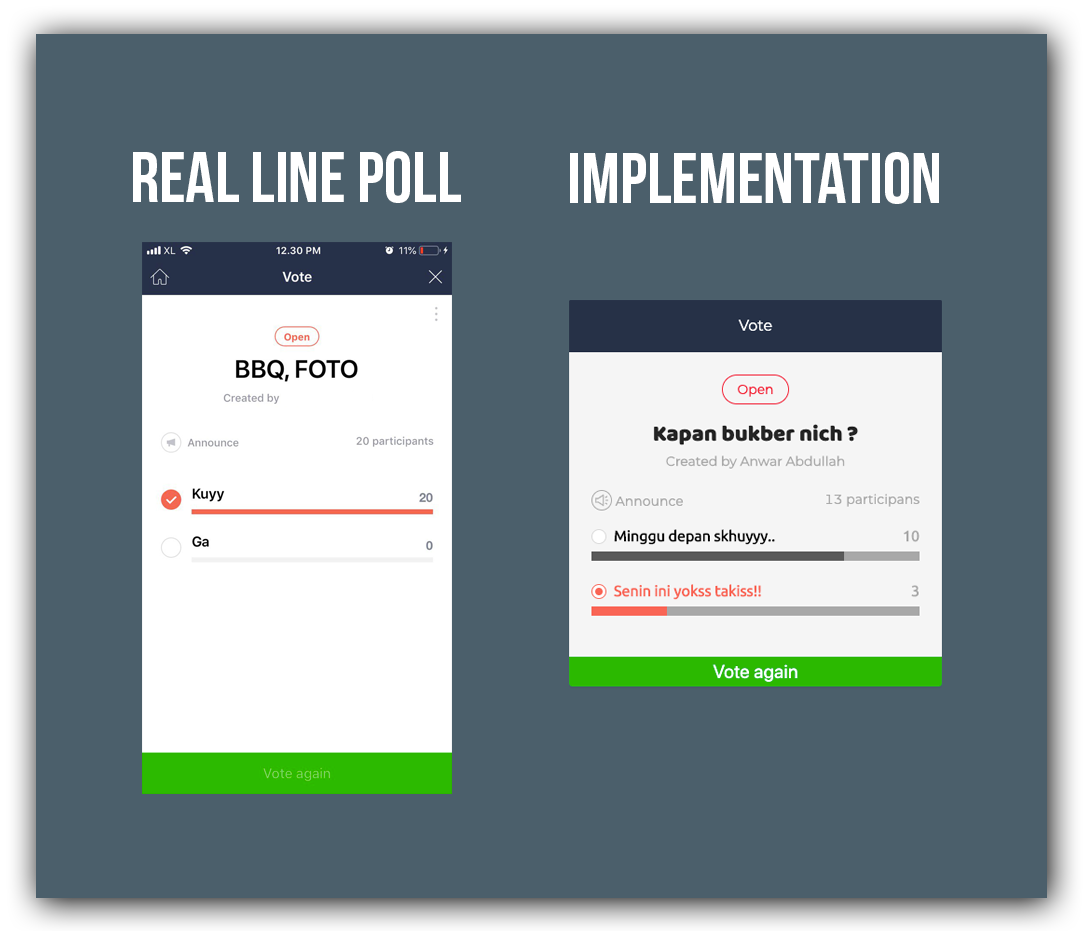
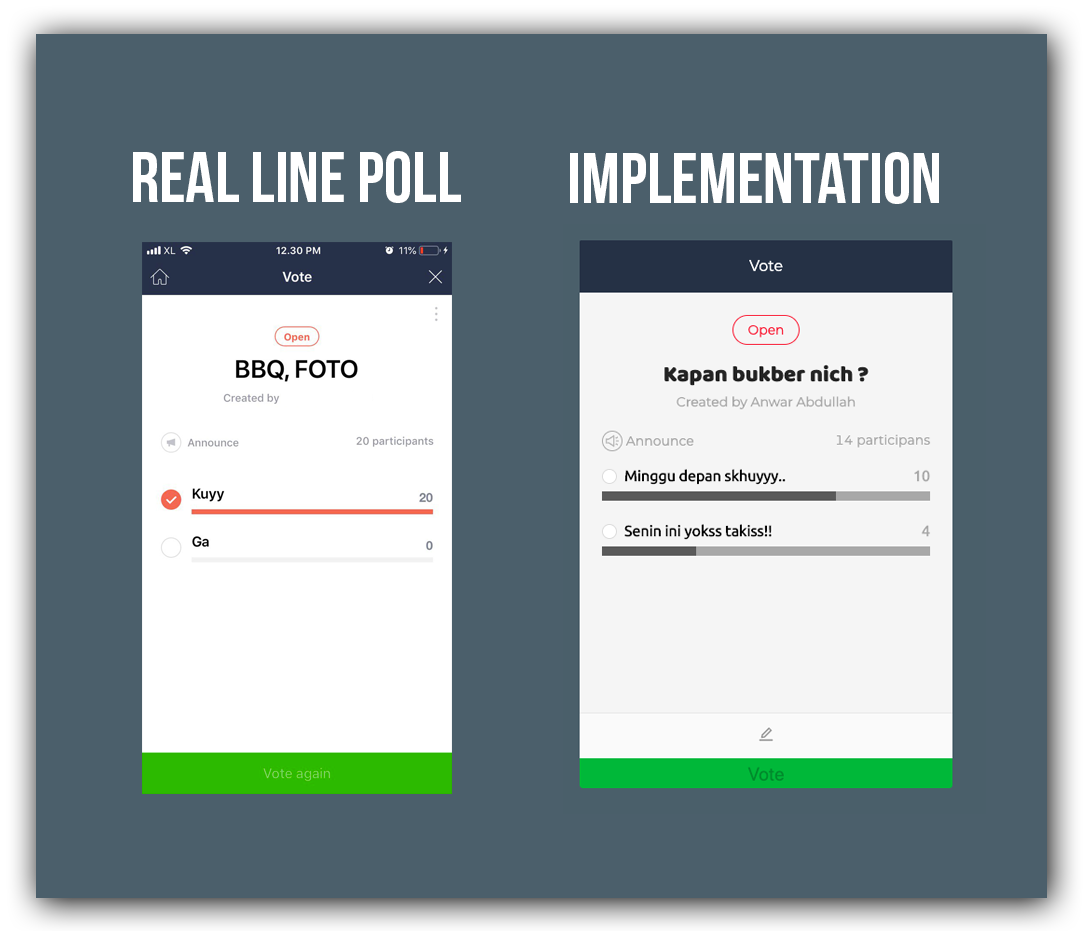
add card body height

Changed region(s): [[0.5, 0.2492, 0.875, 0.8722]]

diff --git a/public/index.html b/public/index.html
@@ -1,16 +1,17 @@
 <!DOCTYPE html>
 <html lang="en">
-  <head>
-    <meta charset="utf-8" />
-    <link rel="shortcut icon" href="%PUBLIC_URL%/favicon.ico" />
-    <meta name="viewport" content="width=device-width, initial-scale=1" />
-    <meta name="theme-color" content="#000000" />
-    <!--
+
+<head>
+  <meta charset="utf-8" />
+  <link rel="shortcut icon" href="%PUBLIC_URL%/favicon.ico" />
+  <meta name="viewport" content="width=device-width, initial-scale=1" />
+  <meta name="theme-color" content="#000000" />
+  <!--
       manifest.json provides metadata used when your web app is installed on a
       user's mobile device or desktop. See https://developers.google.com/web/fundamentals/web-app-manifest/
     -->
-    <link rel="manifest" href="%PUBLIC_URL%/manifest.json" />
-    <!--
+  <link rel="manifest" href="%PUBLIC_URL%/manifest.json" />
+  <!--
       Notice the use of %PUBLIC_URL% in the tags above.
       It will be replaced with the URL of the `public` folder during the build.
       Only files inside the `public` folder can be referenced from the HTML.
@@ -19,12 +20,13 @@
       work correctly both with client-side routing and a non-root public URL.
       Learn how to configure a non-root public URL by running `npm run build`.
     -->
-    <title>React App</title>
-  </head>
-  <body>
-    <noscript>You need to enable JavaScript to run this app.</noscript>
-    <div id="root"></div>
-    <!--
+  <title>True Winner - Simple LINE Poll Clone </title>
+</head>
+
+<body>
+  <noscript>You need to enable JavaScript to run this app.</noscript>
+  <div id="root"></div>
+  <!--
       This HTML file is a template.
       If you open it directly in the browser, you will see an empty page.
 
@@ -34,5 +36,6 @@
       To begin the development, run `npm start` or `yarn start`.
       To create a production bundle, use `npm run build` or `yarn build`.
     -->
-  </body>
+</body>
+
 </html>

diff --git a/src/components/Card/index.js b/src/components/Card/index.js
@@ -1,5 +1,5 @@
 import React from 'react';
-import { Card, Button, Icon, Radio } from 'antd';
+import { Card, Button, Icon, Radio, Tooltip } from 'antd';
 import classnames from 'classnames';
 import './_index.scss';
 const RadioGroup = Radio.Group;
@@ -26,7 +26,15 @@ export default class index extends React.Component {
 		return (
 			<div style={{ display: 'flex', flexDirection: 'column' }}>
 				<form onSubmit={this.handleSubmit}>
-					<Card title="Vote" className="card-content">
+					<Card
+						title="Vote"
+						className="card-content"
+						actions={[
+							<Tooltip placement="topRight" title="Create Own Poll">
+								<Icon type="edit" />
+							</Tooltip>
+						]}
+					>
 						<Button type={!this.state.disable ? 'danger' : 'primary'} ghost onClick={this.onDisable}>
 							{!this.state.disable ? 'Open' : 'Closed'}
 						</Button>
